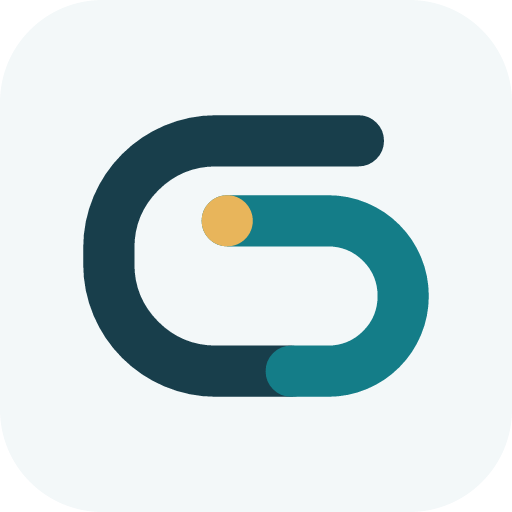
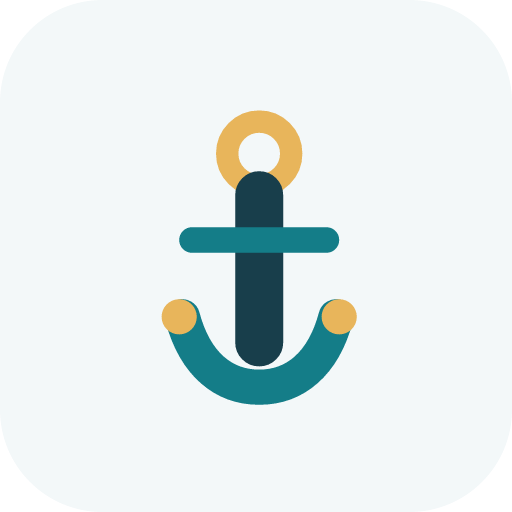
Redesign the mark as a stylized anchor and pass docs to 10.4.0 (#110)
- banner mark: gold ring, ink shank, teal crossbar and arms with gold
  fluke tips — a dependable way back, no letterform ambiguity; icon and
  banner PNGs regenerated from the master with the documented resvg
  script (same palette, same regeneration contract)
- identity.md visual-language section and asset descriptions updated
- README: version callout replaced with an upgrade pointer plus 10.4.0
  highlights
- guide: synthetic compaction anchors in navigation; cache-inactive
  route flagging in the ledger section
- architecture: cacheControl row in the provider capability table and
  the tail-aware trim frontier in recoverable trimming
- changelog/configuration for 10.4.0 shipped with the release PR

Changed region(s): [[0.1562, 0.2188, 0.8438, 0.8125]]

diff --git a/docs/identity.md b/docs/identity.md
@@ -35,16 +35,17 @@ package is published by this identity change.
 
 ## Visual language
 
-The mark is one **open return path**. Its outer curve holds the working context;
-the inner turn leads back to a gold anchor. It expresses recoverability without
-using a generic compression arrow, database stack or infinity symbol. This is a
-visual metaphor, not a diagram of the compaction algorithm.
+The mark is a **stylized anchor**: a gold ring holds the shank, a teal
+ crossbar and upturned arms carry the weight, and gold tips mark the fluke
+ points. It expresses a dependable way back — continuity, not compression —
+ without using a generic compression arrow, database stack or infinity symbol.
+ This is a visual metaphor, not a diagram of the compaction algorithm.
 
 | Role | Color | Use |
 | --- | --- | --- |
-| Deep ink | `#183E4B` | Outer path and wordmark |
-| Return teal | `#147D88` | Inner return path |
-| Anchor gold | `#E8B55B` | One retained point; never body text |
+| Deep ink | `#183E4B` | Shank and wordmark |
+| Return teal | `#147D88` | Crossbar and arms |
+| Anchor gold | `#E8B55B` | Ring and fluke tips; never body text |
 | Supporting ink | `#466674` | Banner descriptor |
 | Mist | `#F3F8F9` | Banner and rounded catalog tile |
 
@@ -62,7 +63,7 @@ Installation steps, controls and warnings must remain available as text.
 ## Visual assets
 
 <p>
-  <img src="./assets/pi-smart-compact.png" alt="Pi Continuity: a return path with a gold anchor" width="128" height="128" />
+  <img src="./assets/pi-smart-compact.png" alt="Pi Continuity: a stylized anchor with a gold ring and fluke tips" width="128" height="128" />
 </p>
 
 | File | Dimensions | Purpose |
@@ -93,7 +94,7 @@ const mark = banner.match(/<g id="continuity-mark">[\s\S]*?<\/g>/)?.[0];
 if (!mark) throw new Error("Missing continuity-mark group in banner.svg");
 const icon = `<svg xmlns="http://www.w3.org/2000/svg" width="512" height="512" viewBox="0 0 320 320" role="img" aria-labelledby="title description">
   <title id="title">Pi Continuity</title>
-  <desc id="description">An open return path with a gold anchor: useful context kept within reach.</desc>
+  <desc id="description">A stylized gold-topped anchor: context hygiene with a dependable way back.</desc>
   <!-- Generated from banner.svg; regenerate using docs/identity.md. -->
   <rect width="320" height="320" rx="64" fill="#F3F8F9"/>
   <g transform="translate(-8 0)">${mark}</g>

diff --git a/ARCHITECTURE.md b/ARCHITECTURE.md
@@ -239,8 +239,12 @@ an anchor or newer boundary change cancels it with a visible message.
 
 Trimming protects four recent assistant turns and the active checkpoint prefix,
 replacing up to 32 old read-only results of at least 4096 characters with a
-bounded reference marker. Already-edited entries are not rewritten. Automatic
-trimming runs with `contextHygieneEnabled` independently of compaction, or with
+bounded reference marker. Already-edited entries are not rewritten. Since
+10.4.0, planning is also tail-aware: eligible outputs are scored along a
+prefix-drop frontier (the rewritten cache suffix runs from the first edited
+entry to the branch end), and the largest batch whose first edit still passes
+the configured break-even limit wins; without price data the full set is
+returned exactly as before. Automatic trimming runs with `contextHygieneEnabled` independently of compaction, or with
 the effective `background` strategy, and requires `smart_context` reachable
 by the model (`canAutoTrim` checks it like artifact offload does).
 `plan` gives an on-demand non-mutating preview. Automatic batches require at
@@ -1043,6 +1047,7 @@ with a safe default and fuzzy alias matching for unknowns:
 | `timeoutMultiplier` | auto-trigger hard-timeout headroom |
 | `singlePassTokenMultiplier` | single-pass vs chunked threshold |
 | `tokenRatioEstimate` | token estimation; refined by per-(provider, model) EMA calibration |
+| `cacheControl` | documented prompt-cache surface: marker level (message / top-level / implicit / none), selectable TTLs, write/read price multipliers, routing key. Drives anchor-cache gating (routes documented to ignore message-level markers are left byte-identical) and routing-key stamping; unverified providers keep current behavior |
 
 Every provider call is raced against one aborting hard deadline, so a
 transport that ignores cancellation cannot hold the run lock indefinitely.

diff --git a/docs/guide.md b/docs/guide.md
@@ -445,6 +445,11 @@ anchor prefixes stay protected. It is not a full compaction; the response says
 whether cleanup was queued, blocked or unnecessary. A human may mark a milestone
 earlier. Append-only anchors do not discard an already prepared summary.
 
+Since 10.4.0, a committed Continuity compaction also records a **synthetic
+anchor** at the post-compaction boundary automatically: the summary becomes a
+recall surface and pivot target without a manual step. In-session lists show
+only the newest two synthetic anchors; cross-session recall shows all of them.
+
 ### User-guided early anchors
 
 With `contextPressureOnly: true`, you can ask the agent to mark a milestone
@@ -714,7 +719,10 @@ Home › Readiness & details lists the request count, the share of prompt
 tokens read from cache, rebuilds by cause with their uncached tokens, and the
 cost Pi priced from that usage when the model has catalog prices. The third
 unassigned rebuild records one diagnostic with the count and uncached tokens;
-it does not duplicate Pi's cache-miss notification. The ledger is session-local: it resets on a new or switched session,
+it does not duplicate Pi's cache-miss notification. Since 10.4.0, a
+provider-documented caching route that keeps serving large requests with zero
+reads is flagged once as cache-inactive in readiness and metrics; cache hits
+and write-dominant rebuilds do not count toward it. The ledger is session-local: it resets on a new or switched session,
 is not persisted, and covers only Pi's own requests; Pi Continuity's summary
 calls are in `/smart-compact metrics` instead.
 

diff --git a/README.md b/README.md
@@ -19,12 +19,18 @@ this extension adds context hygiene and continuity policies around it.
 > The TUI still says **Smart Compact**. No data or configuration migration is
 > needed. [Identity and naming](./docs/identity.md).
 >
-> **Pi Continuity 10.1.0:** upgrading from 9.x? Update Pi to 0.87.1 or newer
+> **Upgrading from 9.x?** Update Pi to 0.87.1 or newer
 > and read the [upgrade notes](./docs/guide.md#upgrade-from-9x). Optional memory
 > engines and image rendering are installed separately. The
 > [changelog](./CHANGELOG.md) records the full release and its evidence limits.
-> These defaults (pressure-first cleanup, eager tool exposure, native tool
-> rows) ship with 10.1.0.
+>
+> **New in 10.4.0 — cache-aware economics:** configurable trim limits with a
+> tail-aware planning frontier, an opt-in fingerprint-aware pending lifetime,
+> a provider cache-capability matrix, cache-inactive route detection, opt-in
+> `prompt_cache_key` routing, long-context pricing visibility, trim ROI in
+> `smart_context status`, and automatic anchors for committed compactions.
+> See the [changelog](./CHANGELOG.md) and
+> [configuration](./docs/configuration.md#automatic-trim-timing).
 
 ## What it does
 
